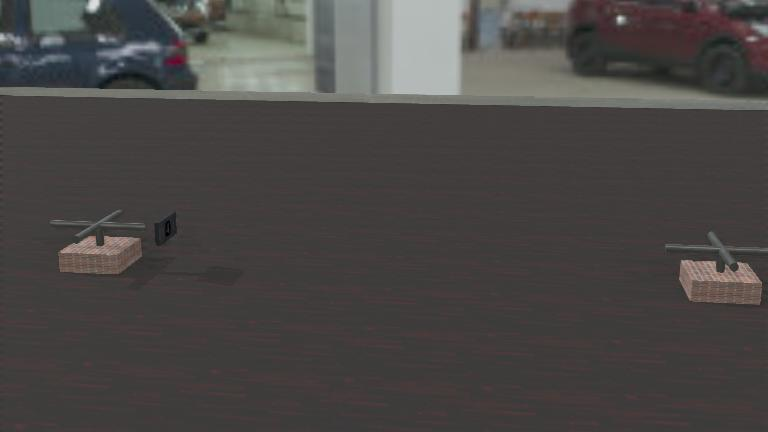
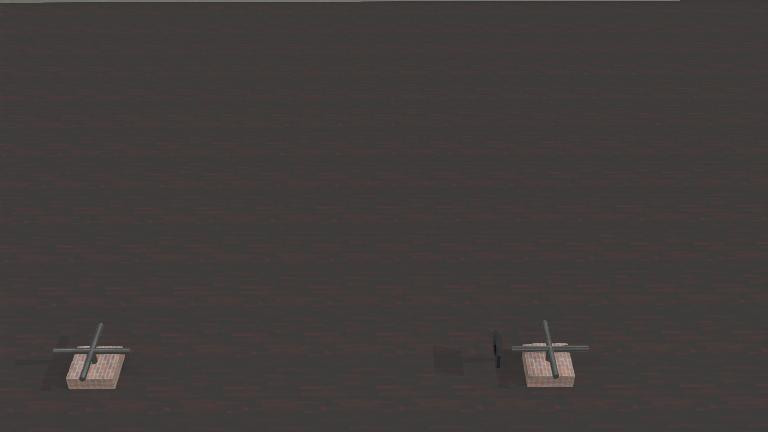
更新模块配置文件与世界信息

diff --git a/User/xrobot_main.hpp b/User/xrobot_main.hpp
@@ -2,20 +2,32 @@
 #include "libxr.hpp"
 
 // Module headers
+#include "WebotsReferee.hpp"
 #include "WebotsCamera.hpp"
 #include "BlinkLED.hpp"
+#include "SharedTopicClient.hpp"
 #include "CameraBase.hpp"
+#include "WebotsGimbal.hpp"
 #include "ArmorDetector.hpp"
+#include "SharedTopic.hpp"
 #include "ArmorTracker.hpp"
+#include "WebotsFireNotify.hpp"
 
 static void XRobotMain(LibXR::HardwareContainer &hw) {
   using namespace LibXR;
   ApplicationManager appmgr;
 
   // Auto-generated module instantiations
+  static WebotsReferee WebotsReferee_0(hw, appmgr, 30.0);
+  static WebotsGimbal WebotsGimbal_0(hw, appmgr);
+  static WebotsFireNotify WebotsFireNotify_0(hw, appmgr);
   static WebotsCamera WebotsCamera_0(hw, appmgr, {1280, 720, 3840, 0, CameraBase::Encoding::RGB8, {0.0, 0.0, 0.0, 0.0, 0.0, 0.0, 0.0, 0.0, 1.0}, CameraBase::DistortionModel::PLUMB_BOB, {0.0, 0.0, 0.0, 0.0, 0.0}, {1.0, 0.0, 0.0, 0.0, 1.0, 0.0, 0.0, 0.0, 1.0}, {0.0, 0.0, 0.0, 0.0, 0.0, 0.0, 0.0, 0.0, 0.0, 0.0, 0.0, 0.0}}, {"camera", 30, 0.15, 0.0});
   static ArmorDetector ArmorDetector_0(hw, appmgr, {{{ArmorNumber::NEGATIVE}, 0.7}, 1, 85, {0.1, 0.4, 40.0}, {0.7, 0.8, 3.2, 3.2, 5.5, 35.0}});
   static ArmorTracker ArmorTracker_0(hw, appmgr, {{10.0}, {0.15, 1.0}, {5, 0.3}, {0.092, 100, 0.19133, 0.21265}, {20.0, 100.0, 800}, {0.05, 0.02}, {{0.0, 0.0, 0.0, 0.0}, {0.0, 0.0, 0.0}}});
+  static SharedTopic SharedTopic_Host(hw, appmgr, "uart_host", 8192, 256, {{"bullet_speed", "referee"}, {"rotation", "gimbal"}});
+  static SharedTopicClient SharedTopicClient_Host(hw, appmgr, "uart_host", 8192, 256, {{"fire_notify", "tracker"}, {"target_eulr", "tracker"}});
+  static SharedTopic SharedTopic_MCU(hw, appmgr, "uart_client", 8192, 256, {"fire_notify", "target_eulr"});
+  static SharedTopicClient SharedTopicClient_MCU(hw, appmgr, "uart_client", 8192, 256, {"bullet_speed", "rotation"});
 
   while (true) {
     appmgr.MonitorAll();

diff --git a/User/main.cpp b/User/main.cpp
@@ -3,9 +3,12 @@
 #include <fstream>
 #include <iomanip>
 #include <sstream>
+#include <webots/Supervisor.hpp>
 
 #include "app_framework.hpp"
 #include "libxr.hpp"
+#include "libxr_def.hpp"
+#include "libxr_pipe.hpp"
 #include "libxr_rw.hpp"
 #include "libxr_system.hpp"
 #include "logger.hpp"
@@ -13,6 +16,7 @@
 #include "ramfs.hpp"
 #include "terminal.hpp"
 #include "thread.hpp"
+#include "uart.hpp"
 #include "xrobot_main.hpp"
 
 void (*log_cb_fun)(bool in_isr, LibXR::Topic, LibXR::RawData &log_data) =
@@ -63,11 +67,31 @@ void (*log_cb_fun)(bool in_isr, LibXR::Topic, LibXR::RawData &log_data) =
   }
 };
 
+class UartBridge : public LibXR::UART
+{
+ public:
+  UartBridge(LibXR::ReadPort *read_port, LibXR::WritePort *write_port)
+      : UART(read_port, write_port)
+  {
+  }
+  ErrorCode SetConfig(LibXR::UART::Configuration) override
+  {
+    return LibXR::ErrorCode::NOT_SUPPORT;
+  }
+};
+
 int main(int, char **)
 {
-  LibXR::PlatformInit();
+  webots::Supervisor supervisor;
+  LibXR::PlatformInit(&supervisor);
 
   XR_LOG_PASS("Platform initialized");
+
+  LibXR::Pipe pipe_host_tx(1024), pipe_host_rx(1024);
+
+  UartBridge uart_host(&pipe_host_rx.GetReadPort(), &pipe_host_tx.GetWritePort());
+
+  UartBridge uart_client(&pipe_host_tx.GetReadPort(), &pipe_host_rx.GetWritePort());
 
   LibXR::RamFS ramfs;
 
@@ -82,9 +106,13 @@ int main(int, char **)
   log_topic.RegisterCallback(log_cb);
 
   LibXR::HardwareContainer peripherals{
+      LibXR::Entry<LibXR::UART>({uart_host, {"uart_host"}}),
+      LibXR::Entry<LibXR::UART>({uart_client, {"uart_client"}}),
       LibXR::Entry<LibXR::RamFS>({ramfs, {"ramfs"}}),
-  };
+      LibXR::Entry<webots::Supervisor>({supervisor, {"supervisor"}})};
+
   XRobotMain(peripherals);
+
   while (1)
   {
     LibXR::Thread::Sleep(1000);
